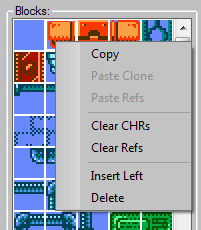
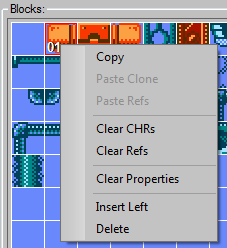
MAPeD: added option to clear blocks properties; version increment

diff --git a/src/MAPeD/src/MainForm.Designer.cs b/src/MAPeD/src/MainForm.Designer.cs
@@ -1,6 +1,6 @@
 /*
  * Created by SharpDevelop.
- * User: 0x8BitDev Copyright 2017-2021 ( MIT license. See LICENSE.txt )
+ * User: 0x8BitDev Copyright 2017-2022 ( MIT license. See LICENSE.txt )
  * Date: 01.05.2017
  * Time: 15:24
  */
@@ -77,6 +77,7 @@ namespace MAPeD
 			this.propertyToolStripMenuItem = new System.Windows.Forms.ToolStripMenuItem();
 			this.PropertyPerBlockToolStripMenuItem = new System.Windows.Forms.ToolStripMenuItem();
 			this.PropertyPerCHRToolStripMenuItem = new System.Windows.Forms.ToolStripMenuItem();
+			this.clearPropertiesToolStripMenuItem = new System.Windows.Forms.ToolStripMenuItem();
 			this.toolStripSeparator13 = new System.Windows.Forms.ToolStripSeparator();
 			this.verticalFlipToolStripMenuItem = new System.Windows.Forms.ToolStripMenuItem();
 			this.horizontalFlipToolStripMenuItem = new System.Windows.Forms.ToolStripMenuItem();
@@ -357,6 +358,8 @@ namespace MAPeD
 			this.separatorToolStripMenuItem3 = new System.Windows.Forms.ToolStripSeparator();
 			this.clearCHRsBlockToolStripMenuItem = new System.Windows.Forms.ToolStripMenuItem();
 			this.clearRefsBlockToolStripMenuItem = new System.Windows.Forms.ToolStripMenuItem();
+			this.toolStripSeparator12 = new System.Windows.Forms.ToolStripSeparator();
+			this.clearPropertiesToolStripMenuItem1 = new System.Windows.Forms.ToolStripMenuItem();
 			this.toolStripSeparator22 = new System.Windows.Forms.ToolStripSeparator();
 			this.insertLeftBlockToolStripMenuItem = new System.Windows.Forms.ToolStripMenuItem();
 			this.deleteBlockToolStripMenuItem = new System.Windows.Forms.ToolStripMenuItem();
@@ -712,6 +715,7 @@ namespace MAPeD
 									this.BlockEditorModeDrawToolStripMenuItem,
 									this.toolStripSeparator11,
 									this.propertyToolStripMenuItem,
+									this.clearPropertiesToolStripMenuItem,
 									this.toolStripSeparator13,
 									this.verticalFlipToolStripMenuItem,
 									this.horizontalFlipToolStripMenuItem,
@@ -786,6 +790,13 @@ namespace MAPeD
 			this.PropertyPerCHRToolStripMenuItem.Size = new System.Drawing.Size(140, 22);
 			this.PropertyPerCHRToolStripMenuItem.Text = "&CHR";
 			this.PropertyPerCHRToolStripMenuItem.Click += new System.EventHandler(this.PropertyPerCHRToolStripMenuItemClick_Event);
+			// 
+			// clearPropertiesToolStripMenuItem
+			// 
+			this.clearPropertiesToolStripMenuItem.Name = "clearPropertiesToolStripMenuItem";
+			this.clearPropertiesToolStripMenuItem.Size = new System.Drawing.Size(178, 22);
+			this.clearPropertiesToolStripMenuItem.Text = "C&lear Properties";
+			this.clearPropertiesToolStripMenuItem.Click += new System.EventHandler(this.clearPropertiesToolStripMenuItemClick_Event);
 			// 
 			// toolStripSeparator13
 			// 
@@ -3537,68 +3548,82 @@ namespace MAPeD
 									this.separatorToolStripMenuItem3,
 									this.clearCHRsBlockToolStripMenuItem,
 									this.clearRefsBlockToolStripMenuItem,
+									this.toolStripSeparator12,
+									this.clearPropertiesToolStripMenuItem1,
 									this.toolStripSeparator22,
 									this.insertLeftBlockToolStripMenuItem,
 									this.deleteBlockToolStripMenuItem});
 			this.ContextMenuBlocksList.Name = "contextMenuStripBlocksList";
-			this.ContextMenuBlocksList.Size = new System.Drawing.Size(137, 170);
+			this.ContextMenuBlocksList.Size = new System.Drawing.Size(158, 220);
 			// 
 			// copyBlockToolStripMenuItem
 			// 
 			this.copyBlockToolStripMenuItem.Name = "copyBlockToolStripMenuItem";
-			this.copyBlockToolStripMenuItem.Size = new System.Drawing.Size(136, 22);
+			this.copyBlockToolStripMenuItem.Size = new System.Drawing.Size(157, 22);
 			this.copyBlockToolStripMenuItem.Text = "Copy";
 			this.copyBlockToolStripMenuItem.Click += new System.EventHandler(this.CopyBlockToolStripMenuItemClick_Event);
 			// 
 			// pasteBlockCloneToolStripMenuItem
 			// 
 			this.pasteBlockCloneToolStripMenuItem.Name = "pasteBlockCloneToolStripMenuItem";
-			this.pasteBlockCloneToolStripMenuItem.Size = new System.Drawing.Size(136, 22);
+			this.pasteBlockCloneToolStripMenuItem.Size = new System.Drawing.Size(157, 22);
 			this.pasteBlockCloneToolStripMenuItem.Text = "Paste Clone";
 			this.pasteBlockCloneToolStripMenuItem.Click += new System.EventHandler(this.PasteBlockCloneToolStripMenuItemClick_Event);
 			// 
 			// pasteBlockRefsToolStripMenuItem
 			// 
 			this.pasteBlockRefsToolStripMenuItem.Name = "pasteBlockRefsToolStripMenuItem";
-			this.pasteBlockRefsToolStripMenuItem.Size = new System.Drawing.Size(136, 22);
+			this.pasteBlockRefsToolStripMenuItem.Size = new System.Drawing.Size(157, 22);
 			this.pasteBlockRefsToolStripMenuItem.Text = "Paste Refs";
 			this.pasteBlockRefsToolStripMenuItem.Click += new System.EventHandler(this.PasteBlockRefsToolStripMenuItemClickEvent);
 			// 
 			// separatorToolStripMenuItem3
 			// 
 			this.separatorToolStripMenuItem3.Name = "separatorToolStripMenuItem3";
-			this.separatorToolStripMenuItem3.Size = new System.Drawing.Size(133, 6);
+			this.separatorToolStripMenuItem3.Size = new System.Drawing.Size(154, 6);
 			// 
 			// clearCHRsBlockToolStripMenuItem
 			// 
 			this.clearCHRsBlockToolStripMenuItem.Name = "clearCHRsBlockToolStripMenuItem";
-			this.clearCHRsBlockToolStripMenuItem.Size = new System.Drawing.Size(136, 22);
+			this.clearCHRsBlockToolStripMenuItem.Size = new System.Drawing.Size(157, 22);
 			this.clearCHRsBlockToolStripMenuItem.Text = "Clear CHRs";
 			this.clearCHRsBlockToolStripMenuItem.Click += new System.EventHandler(this.ClearCHRsBlockToolStripMenuItemClick_Event);
 			// 
 			// clearRefsBlockToolStripMenuItem
 			// 
 			this.clearRefsBlockToolStripMenuItem.Name = "clearRefsBlockToolStripMenuItem";
-			this.clearRefsBlockToolStripMenuItem.Size = new System.Drawing.Size(136, 22);
+			this.clearRefsBlockToolStripMenuItem.Size = new System.Drawing.Size(157, 22);
 			this.clearRefsBlockToolStripMenuItem.Text = "Clear Refs";
 			this.clearRefsBlockToolStripMenuItem.Click += new System.EventHandler(this.ClearRefsBlockToolStripMenuItemClick_Event);
+			// 
+			// toolStripSeparator12
+			// 
+			this.toolStripSeparator12.Name = "toolStripSeparator12";
+			this.toolStripSeparator12.Size = new System.Drawing.Size(154, 6);
+			// 
+			// clearPropertiesToolStripMenuItem1
+			// 
+			this.clearPropertiesToolStripMenuItem1.Name = "clearPropertiesToolStripMenuItem1";
+			this.clearPropertiesToolStripMenuItem1.Size = new System.Drawing.Size(157, 22);
+			this.clearPropertiesToolStripMenuItem1.Text = "Clear Properties";
+			this.clearPropertiesToolStripMenuItem1.Click += new System.EventHandler(this.clearPropertiesToolStripMenuItemClick_Event);
 			// 
 			// toolStripSeparator22
 			// 
 			this.toolStripSeparator22.Name = "toolStripSeparator22";
-			this.toolStripSeparator22.Size = new System.Drawing.Size(133, 6);
+			this.toolStripSeparator22.Size = new System.Drawing.Size(154, 6);
 			// 
 			// insertLeftBlockToolStripMenuItem
 			// 
 			this.insertLeftBlockToolStripMenuItem.Name = "insertLeftBlockToolStripMenuItem";
-			this.insertLeftBlockToolStripMenuItem.Size = new System.Drawing.Size(136, 22);
+			this.insertLeftBlockToolStripMenuItem.Size = new System.Drawing.Size(157, 22);
 			this.insertLeftBlockToolStripMenuItem.Text = "Insert Left";
 			this.insertLeftBlockToolStripMenuItem.Click += new System.EventHandler(this.InsertLeftBlockToolStripMenuItemClick_Event);
 			// 
 			// deleteBlockToolStripMenuItem
 			// 
 			this.deleteBlockToolStripMenuItem.Name = "deleteBlockToolStripMenuItem";
-			this.deleteBlockToolStripMenuItem.Size = new System.Drawing.Size(136, 22);
+			this.deleteBlockToolStripMenuItem.Size = new System.Drawing.Size(157, 22);
 			this.deleteBlockToolStripMenuItem.Text = "Delete";
 			this.deleteBlockToolStripMenuItem.Click += new System.EventHandler(this.DeleteBlockToolStripMenuItemClick_Event);
 			// 
@@ -3787,6 +3812,9 @@ namespace MAPeD
 			this.ResumeLayout(false);
 			this.PerformLayout();
 		}
+		private System.Windows.Forms.ToolStripMenuItem clearPropertiesToolStripMenuItem1;
+		private System.Windows.Forms.ToolStripSeparator toolStripSeparator12;
+		private System.Windows.Forms.ToolStripMenuItem clearPropertiesToolStripMenuItem;
 		private System.Windows.Forms.Label LabelScreenResolution;
 		private System.Windows.Forms.Label label12;
 		private System.Windows.Forms.Label label13;

diff --git a/src/MAPeD/src/tiles_processor/block_editor.cs b/src/MAPeD/src/tiles_processor/block_editor.cs
@@ -1,6 +1,6 @@
 /*
  * Created by SharpDevelop.
- * User: 0x8BitDev Copyright 2017-2021 ( MIT license. See LICENSE.txt )
+ * User: 0x8BitDev Copyright 2017-2022 ( MIT license. See LICENSE.txt )
  * Date: 04.05.2017
  * Time: 13:12
  */
@@ -585,30 +585,14 @@ namespace MAPeD
 			}
 		}
 #endif
-		public void set_block_flags_obj_id( int _id, bool _per_block )
+		public void set_block_flags_obj_id( int _prop_id, bool _per_block )
 		{
-			if( m_sel_block_id >= 0 )
+			if( m_data != null )
 			{
-				int chr_data_ind;
-				
-				if( _per_block )
-				{
-					for( int i = 0; i < utils.CONST_BLOCK_SIZE; i++ )
-					{
-						chr_data_ind = ( m_sel_block_id << 2 ) + i;
-					
-						m_data.blocks[ chr_data_ind ] = tiles_data.set_block_flags_obj_id( _id, m_data.blocks[ chr_data_ind ] );
-					}
-				}
-				else
-				{
-					chr_data_ind = ( m_sel_block_id << 2 ) + m_sel_quad_ind;
-				
-					m_data.blocks[ chr_data_ind ] = tiles_data.set_block_flags_obj_id( _id, m_data.blocks[ chr_data_ind ] );
-				}
+				m_data.set_block_flags_obj_id( m_sel_block_id, m_sel_quad_ind, _prop_id, _per_block );
 			}
 		}
-		
+
 		public int get_block_flags_obj_id()
 		{
 			if( m_data != null && m_sel_block_id >= 0 )

diff --git a/src/MAPeD/src/MainForm.cs b/src/MAPeD/src/MainForm.cs
@@ -2075,6 +2075,30 @@ namespace MAPeD
 			}
 		}
 		
+		void clearPropertiesToolStripMenuItemClick_Event(object sender, EventArgs e)
+		{
+			if( m_data_manager.tiles_data_pos >= 0 )
+			{
+				if( message_box( "Are you sure?\n\nWARNING: ALL the blocks properties will be set to zero!", "Clear Blocks Properties", MessageBoxButtons.YesNo, MessageBoxIcon.Question ) == DialogResult.Yes )
+				{
+					tiles_data data = m_data_manager.get_tiles_data( m_data_manager.tiles_data_pos );
+					
+					int ff_block = data.get_first_free_block_id();
+					ff_block = ( ff_block < 0 ) ? platform_data.get_max_blocks_cnt():ff_block;
+					
+					for( int block_n = 0; block_n < ff_block; block_n++ )
+					{
+						data.set_block_flags_obj_id( block_n, -1, 0, true );
+					}
+					
+					if( CBoxTileViewType.SelectedIndex == ( int )utils.ETileViewType.tvt_ObjectId )
+					{
+						update_graphics( true );
+					}
+				}
+			}
+		}		
+		
 		void InsertLeftBlockToolStripMenuItemClick_Event(object sender, EventArgs e)
 		{
 			if( m_data_manager.tiles_data_pos >= 0 )
@@ -4514,6 +4538,6 @@ namespace MAPeD
 			return true;
 		}
 		
-#endregion		
+#endregion				
 	}
 }

diff --git a/src/MAPeD/src/tiles_processor/tiles_data.cs b/src/MAPeD/src/tiles_processor/tiles_data.cs
@@ -1,6 +1,6 @@
 /*
  * Created by SharpDevelop.
- * User: 0x8BitDev Copyright 2017-2021 ( MIT license. See LICENSE.txt )
+ * User: 0x8BitDev Copyright 2017-2022 ( MIT license. See LICENSE.txt )
  * Date: 03.05.2017
  * Time: 17:18
  */
@@ -627,6 +627,30 @@ namespace MAPeD
 		public static uint set_block_flags_obj_id( int _obj_id, uint _block_chr_data )
 		{
 			return m_map_data_config_app.pack_data( map_data_config_base.EData.ed_Obj_id, _obj_id, _block_chr_data );
+		}
+
+		public void set_block_flags_obj_id( int _block_id, int _CHR_id, int _prop_id, bool _per_block )
+		{
+			if( _block_id >= 0 )
+			{
+				int chr_data_ind;
+				
+				if( _per_block )
+				{
+					for( int i = 0; i < utils.CONST_BLOCK_SIZE; i++ )
+					{
+						chr_data_ind = ( _block_id << 2 ) + i;
+					
+						blocks[ chr_data_ind ] = set_block_flags_obj_id( _prop_id, blocks[ chr_data_ind ] );
+					}
+				}
+				else
+				{
+					chr_data_ind = ( _block_id << 2 ) + _CHR_id;
+				
+					blocks[ chr_data_ind ] = set_block_flags_obj_id( _prop_id, blocks[ chr_data_ind ] );
+				}
+			}
 		}
 		
 		public static int get_block_CHR_id( uint _block_chr_data )

diff --git a/src/MAPeD/MAPeD-NES/Properties/AssemblyInfo.cs b/src/MAPeD/MAPeD-NES/Properties/AssemblyInfo.cs
@@ -14,7 +14,7 @@ using System.Runtime.InteropServices;
 [assembly: AssemblyConfiguration("")]
 [assembly: AssemblyCompany("0x8BitDev")]
 [assembly: AssemblyProduct("MAPeD-NES")]
-[assembly: AssemblyCopyright("Copyright © 2017-2021 by 0x8BitDev ( MIT license. See LICENSE.txt )")]
+[assembly: AssemblyCopyright("Copyright © 2017-2022 by 0x8BitDev ( MIT license. See LICENSE.txt )")]
 [assembly: AssemblyTrademark("")]
 [assembly: AssemblyCulture("")]
 
@@ -28,4 +28,4 @@ using System.Runtime.InteropServices;
 //
 // You can specify all the values or you can use the default the Revision and 
 // Build Numbers by using the '*' as shown below:
-[assembly: AssemblyVersion("0.67.*")]
+[assembly: AssemblyVersion("0.68.*")]

diff --git a/src/MAPeD/MAPeD-PCE/Properties/AssemblyInfo.cs b/src/MAPeD/MAPeD-PCE/Properties/AssemblyInfo.cs
@@ -14,7 +14,7 @@ using System.Runtime.InteropServices;
 [assembly: AssemblyConfiguration("")]
 [assembly: AssemblyCompany("0x8BitDev")]
 [assembly: AssemblyProduct("MAPeD-PCE")]
-[assembly: AssemblyCopyright("Copyright © 2017-2021 by 0x8BitDev ( MIT license. See LICENSE.txt )")]
+[assembly: AssemblyCopyright("Copyright © 2017-2022 by 0x8BitDev ( MIT license. See LICENSE.txt )")]
 [assembly: AssemblyTrademark("")]
 [assembly: AssemblyCulture("")]
 
@@ -28,4 +28,4 @@ using System.Runtime.InteropServices;
 //
 // You can specify all the values or you can use the default the Revision and 
 // Build Numbers by using the '*' as shown below:
-[assembly: AssemblyVersion("0.67.*")]
+[assembly: AssemblyVersion("0.68.*")]

diff --git a/src/MAPeD/MAPeD-SMD/Properties/AssemblyInfo.cs b/src/MAPeD/MAPeD-SMD/Properties/AssemblyInfo.cs
@@ -14,7 +14,7 @@ using System.Runtime.InteropServices;
 [assembly: AssemblyConfiguration("")]
 [assembly: AssemblyCompany("0x8BitDev")]
 [assembly: AssemblyProduct("MAPeD-SMD")]
-[assembly: AssemblyCopyright("Copyright © 2017-2021 by 0x8BitDev ( MIT license. See LICENSE.txt )")]
+[assembly: AssemblyCopyright("Copyright © 2017-2022 by 0x8BitDev ( MIT license. See LICENSE.txt )")]
 [assembly: AssemblyTrademark("")]
 [assembly: AssemblyCulture("")]
 
@@ -28,4 +28,4 @@ using System.Runtime.InteropServices;
 //
 // You can specify all the values or you can use the default the Revision and 
 // Build Numbers by using the '*' as shown below:
-[assembly: AssemblyVersion("0.67.*")]
+[assembly: AssemblyVersion("0.68.*")]

diff --git a/src/MAPeD/MAPeD-SMS/Properties/AssemblyInfo.cs b/src/MAPeD/MAPeD-SMS/Properties/AssemblyInfo.cs
@@ -14,7 +14,7 @@ using System.Runtime.InteropServices;
 [assembly: AssemblyConfiguration("")]
 [assembly: AssemblyCompany("0x8BitDev")]
 [assembly: AssemblyProduct("MAPeD-SMS")]
-[assembly: AssemblyCopyright("Copyright © 2017-2021 by 0x8BitDev ( MIT license. See LICENSE.txt )")]
+[assembly: AssemblyCopyright("Copyright © 2017-2022 by 0x8BitDev ( MIT license. See LICENSE.txt )")]
 [assembly: AssemblyTrademark("")]
 [assembly: AssemblyCulture("")]
 
@@ -28,4 +28,4 @@ using System.Runtime.InteropServices;
 //
 // You can specify all the values or you can use the default the Revision and 
 // Build Numbers by using the '*' as shown below:
-[assembly: AssemblyVersion("0.67.*")]
+[assembly: AssemblyVersion("0.68.*")]

diff --git a/src/MAPeD/MAPeD-ZX/Properties/AssemblyInfo.cs b/src/MAPeD/MAPeD-ZX/Properties/AssemblyInfo.cs
@@ -14,7 +14,7 @@ using System.Runtime.InteropServices;
 [assembly: AssemblyConfiguration("")]
 [assembly: AssemblyCompany("0x8BitDev")]
 [assembly: AssemblyProduct("MAPeD-ZX")]
-[assembly: AssemblyCopyright("Copyright © 2017-2021 by 0x8BitDev ( MIT license. See LICENSE.txt )")]
+[assembly: AssemblyCopyright("Copyright © 2017-2022 by 0x8BitDev ( MIT license. See LICENSE.txt )")]
 [assembly: AssemblyTrademark("")]
 [assembly: AssemblyCulture("")]
 
@@ -28,4 +28,4 @@ using System.Runtime.InteropServices;
 //
 // You can specify all the values or you can use the default the Revision and 
 // Build Numbers by using the '*' as shown below:
-[assembly: AssemblyVersion("0.67.*")]
+[assembly: AssemblyVersion("0.68.*")]

diff --git a/src/MAPeD/src/tiles_processor/tiles_processor.cs b/src/MAPeD/src/tiles_processor/tiles_processor.cs
@@ -1,6 +1,6 @@
 /*
  * Created by SharpDevelop.
- * User: 0x8BitDev Copyright 2017-2021 ( MIT license. See LICENSE.txt )
+ * User: 0x8BitDev Copyright 2017-2022 ( MIT license. See LICENSE.txt )
  * Date: 04.05.2017
  * Time: 12:36
  */
@@ -120,9 +120,9 @@ namespace MAPeD
 			m_block_editor.set_CHR_flag_hflip();
 		}
 #endif
-		public void set_block_flags_obj_id( int _id, bool _per_block )
+		public void set_block_flags_obj_id( int _prop_id, bool _per_block )
 		{
-			m_block_editor.set_block_flags_obj_id( _id, _per_block );
+			m_block_editor.set_block_flags_obj_id( _prop_id, _per_block );
 		}
 		
 		public int get_block_flags_obj_id()
